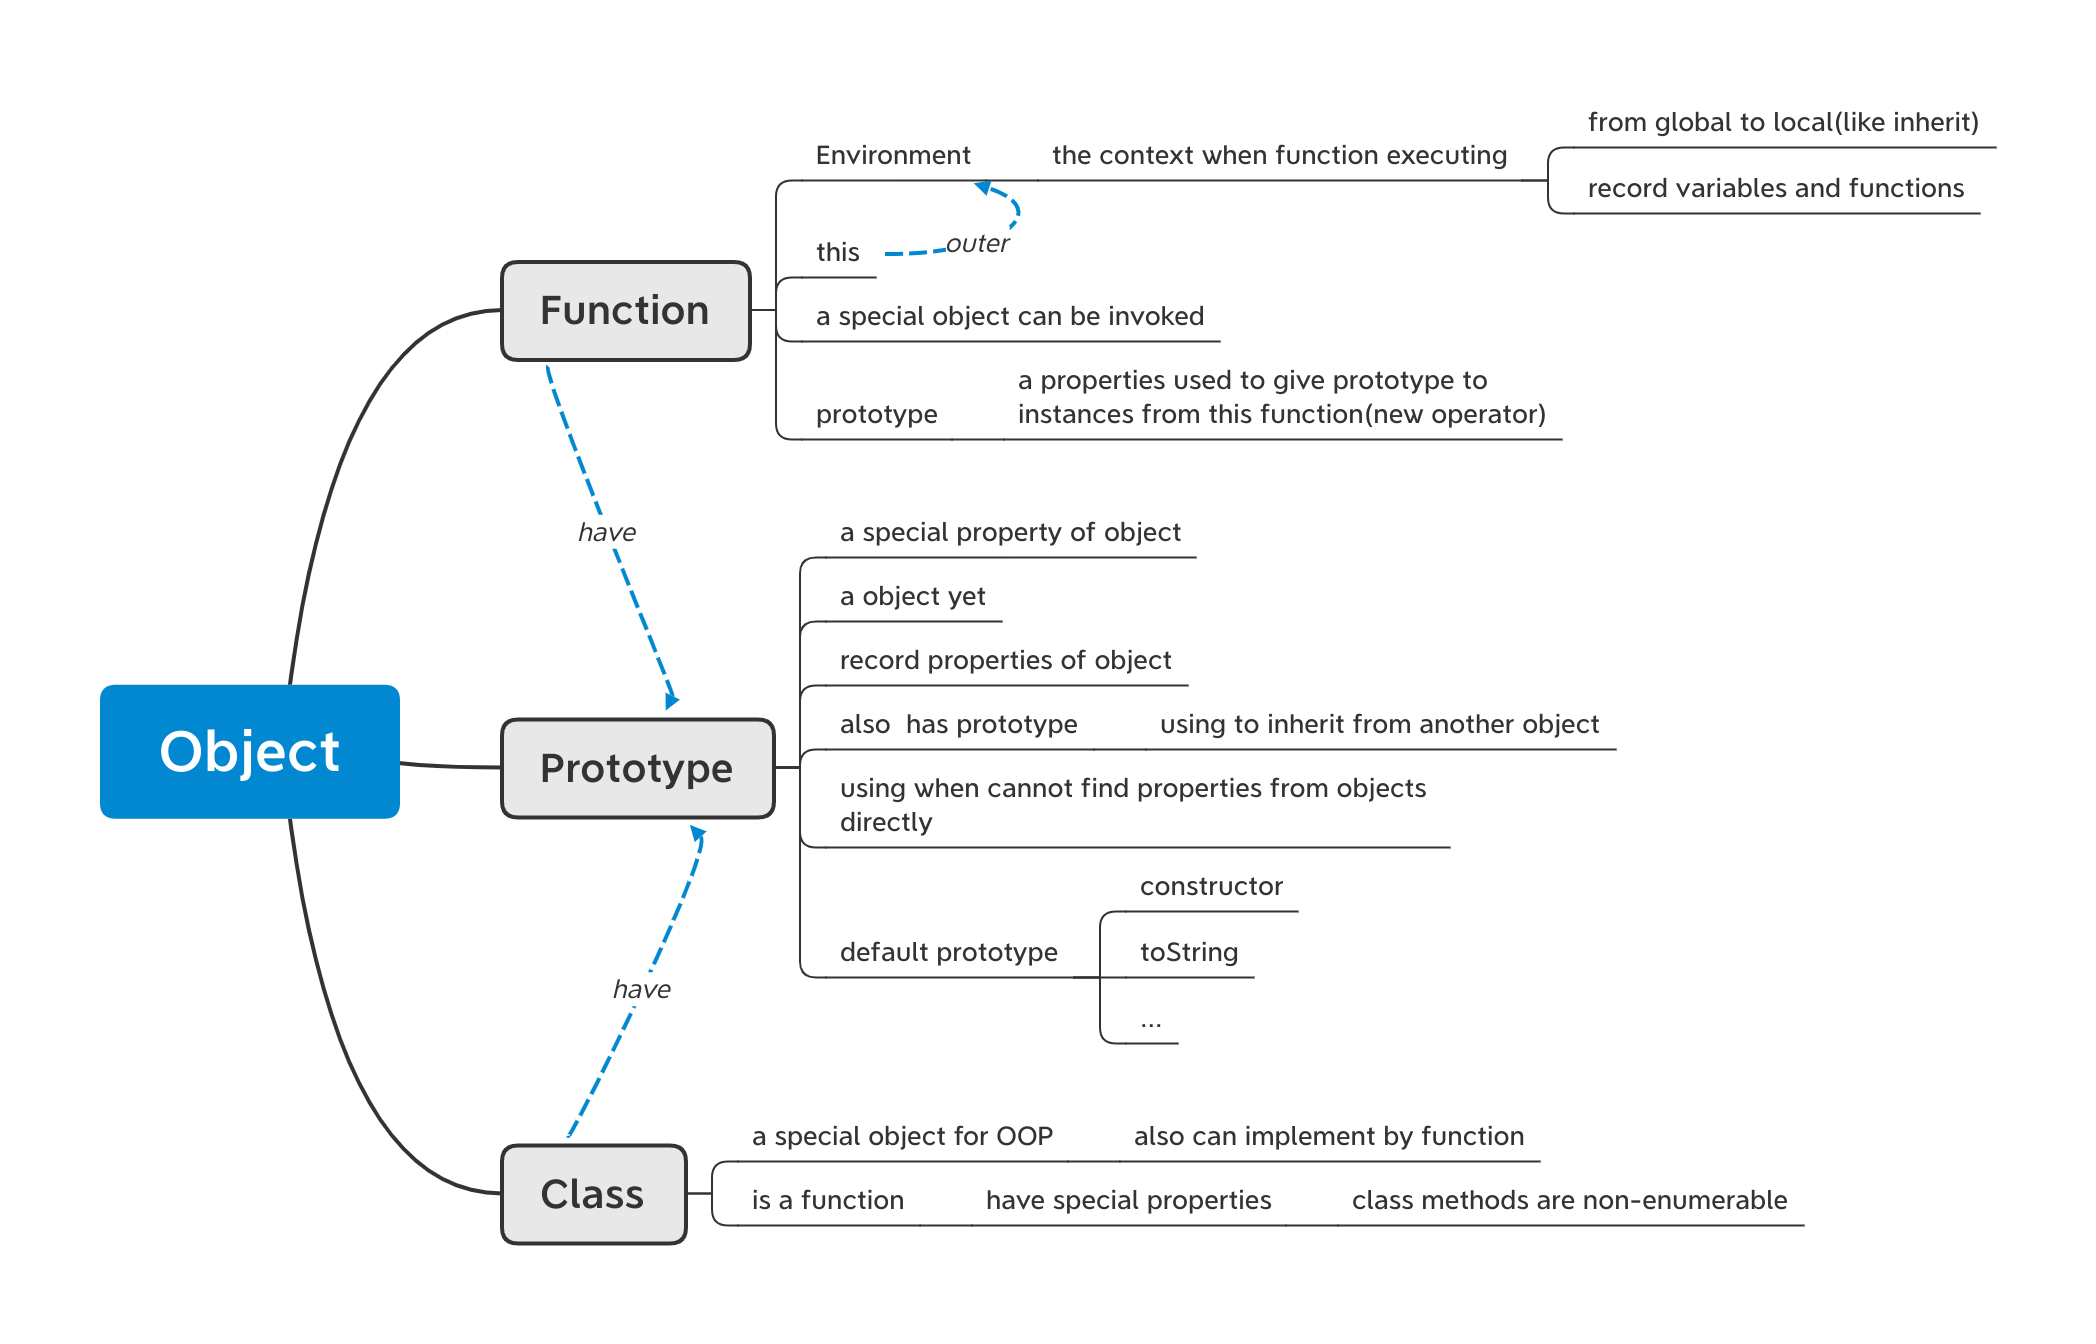
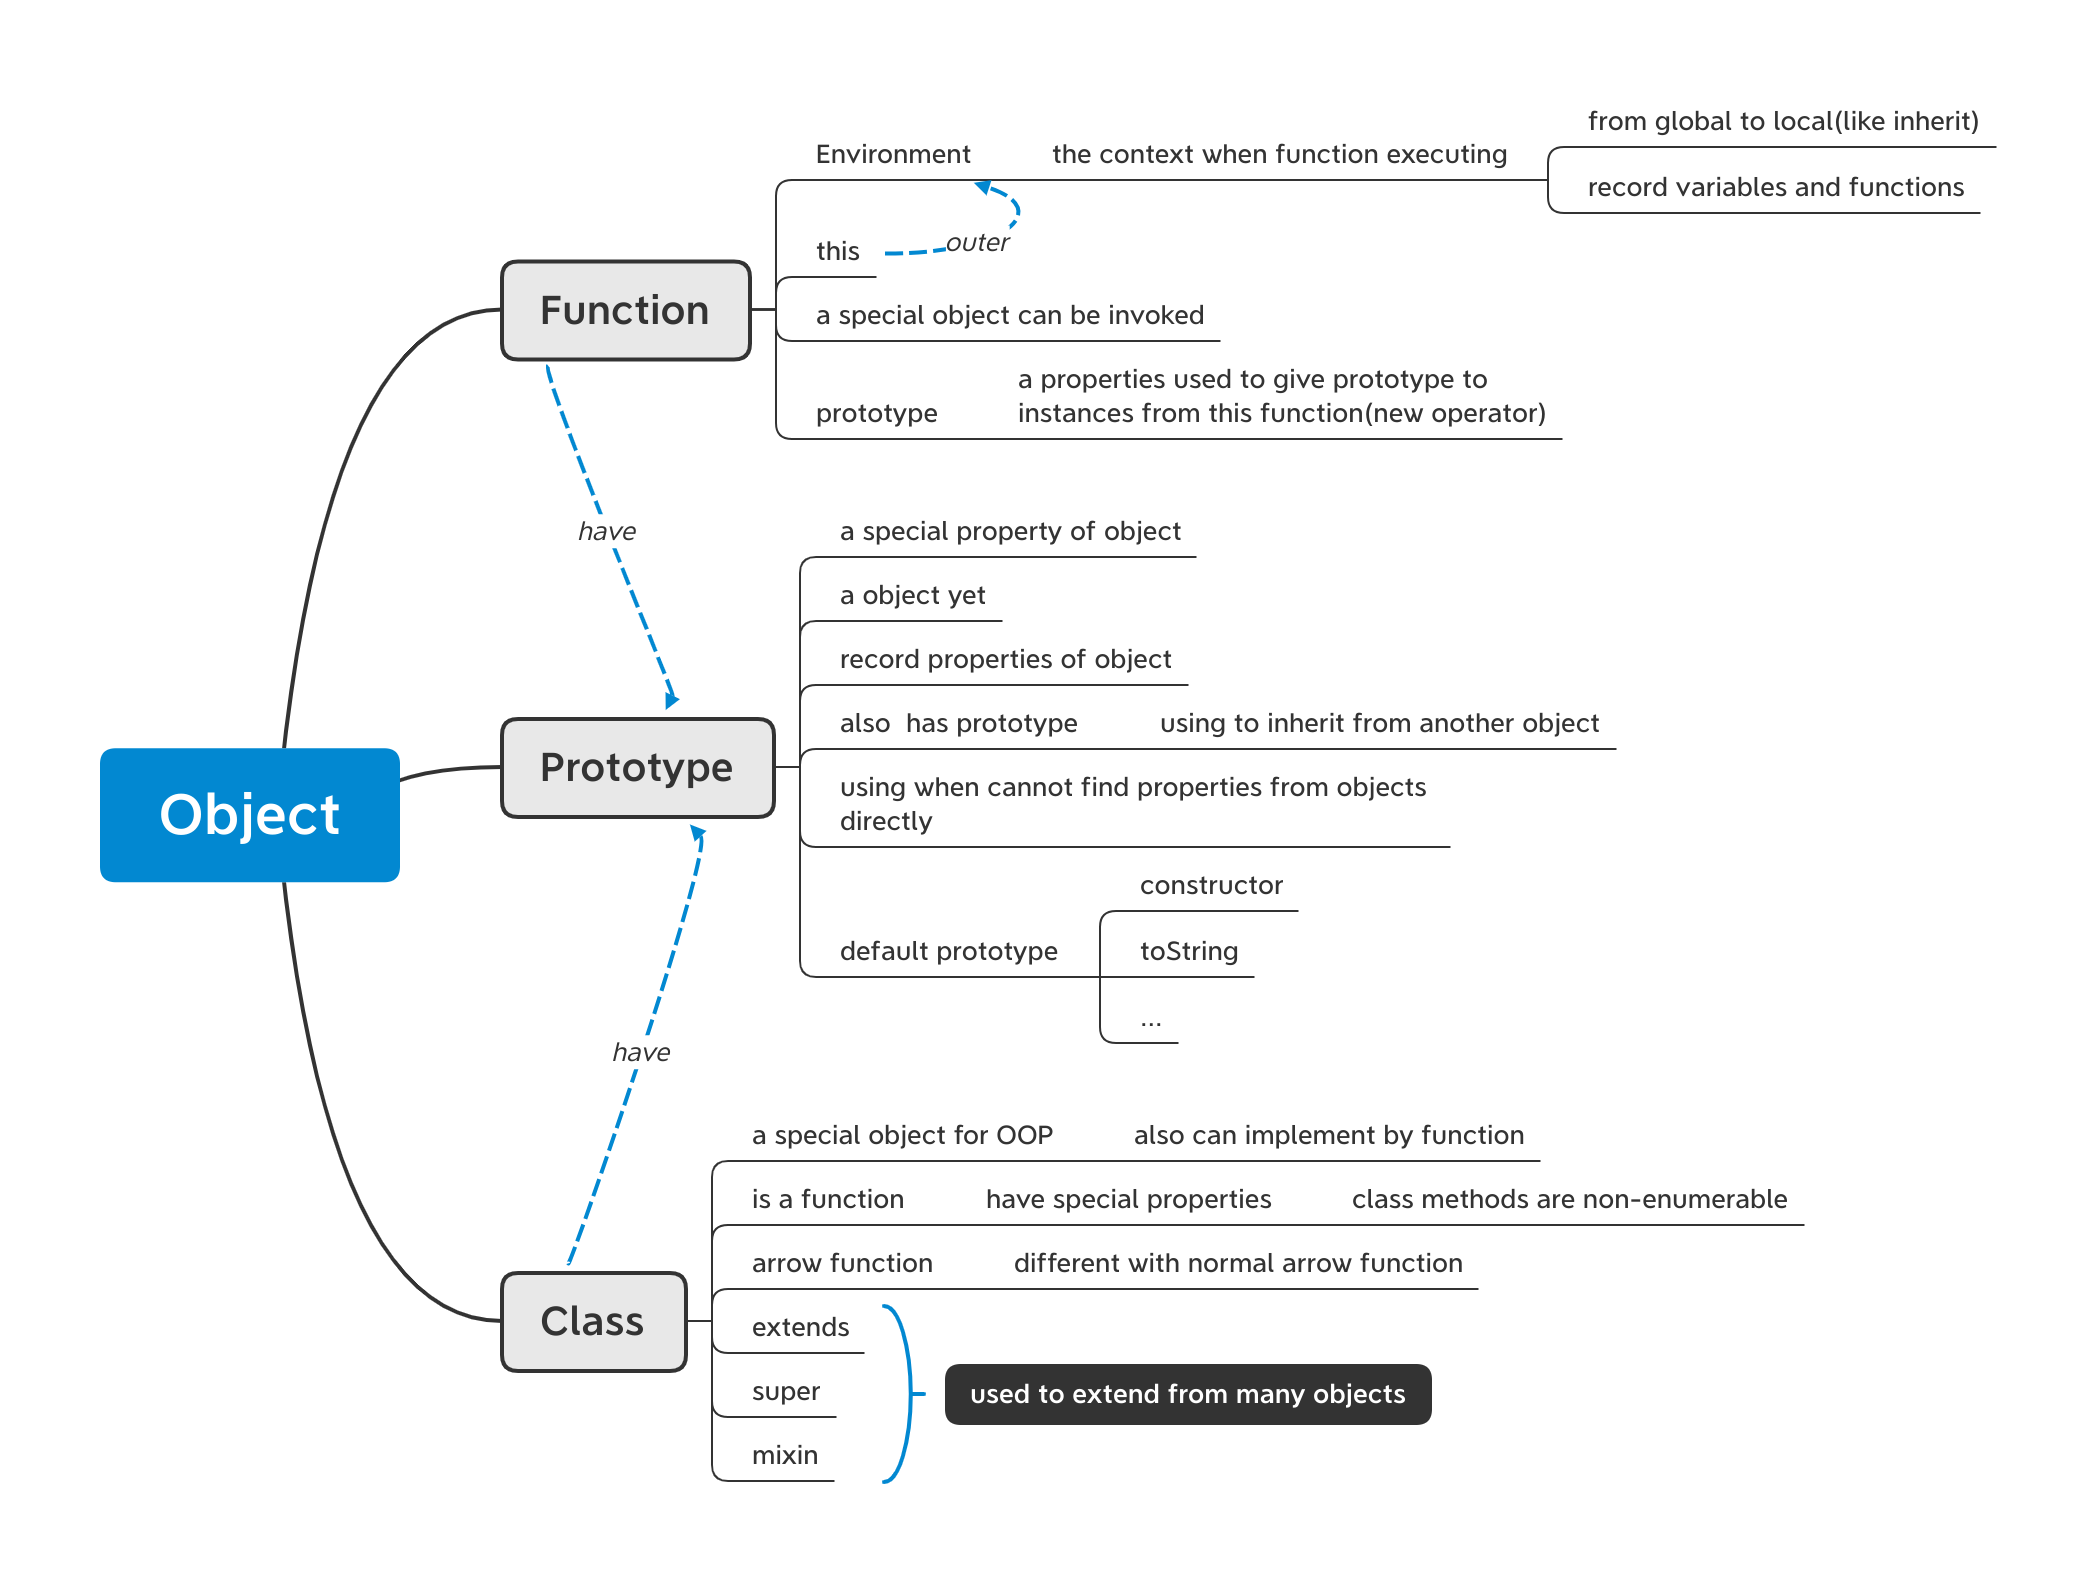
update js-study

diff --git a/content/posts/js-study.md b/content/posts/js-study.md
@@ -86,5 +86,15 @@ let user = new User;
 console.log(User.prototype == user.__proto__);
 ```
 
+### Class
 
+Class是JS为OOP设计的一个结构，跟其他OOP语言一样有成员、方法，可以继承，有静态变量和方法，但是如下特性还只在最近的浏览器版本中部分实现：
 
++ 静态成员
++ 私有成员或函数(#)
+
+JS的Class本质上也是一个Function, 只不过把`constructor`体现的更明显，其中`super`关键字也可以在普通Object中使用。
+
+## 参考
+
++ [The Modern JavaScript Tutorial](https://javascript.info/)
